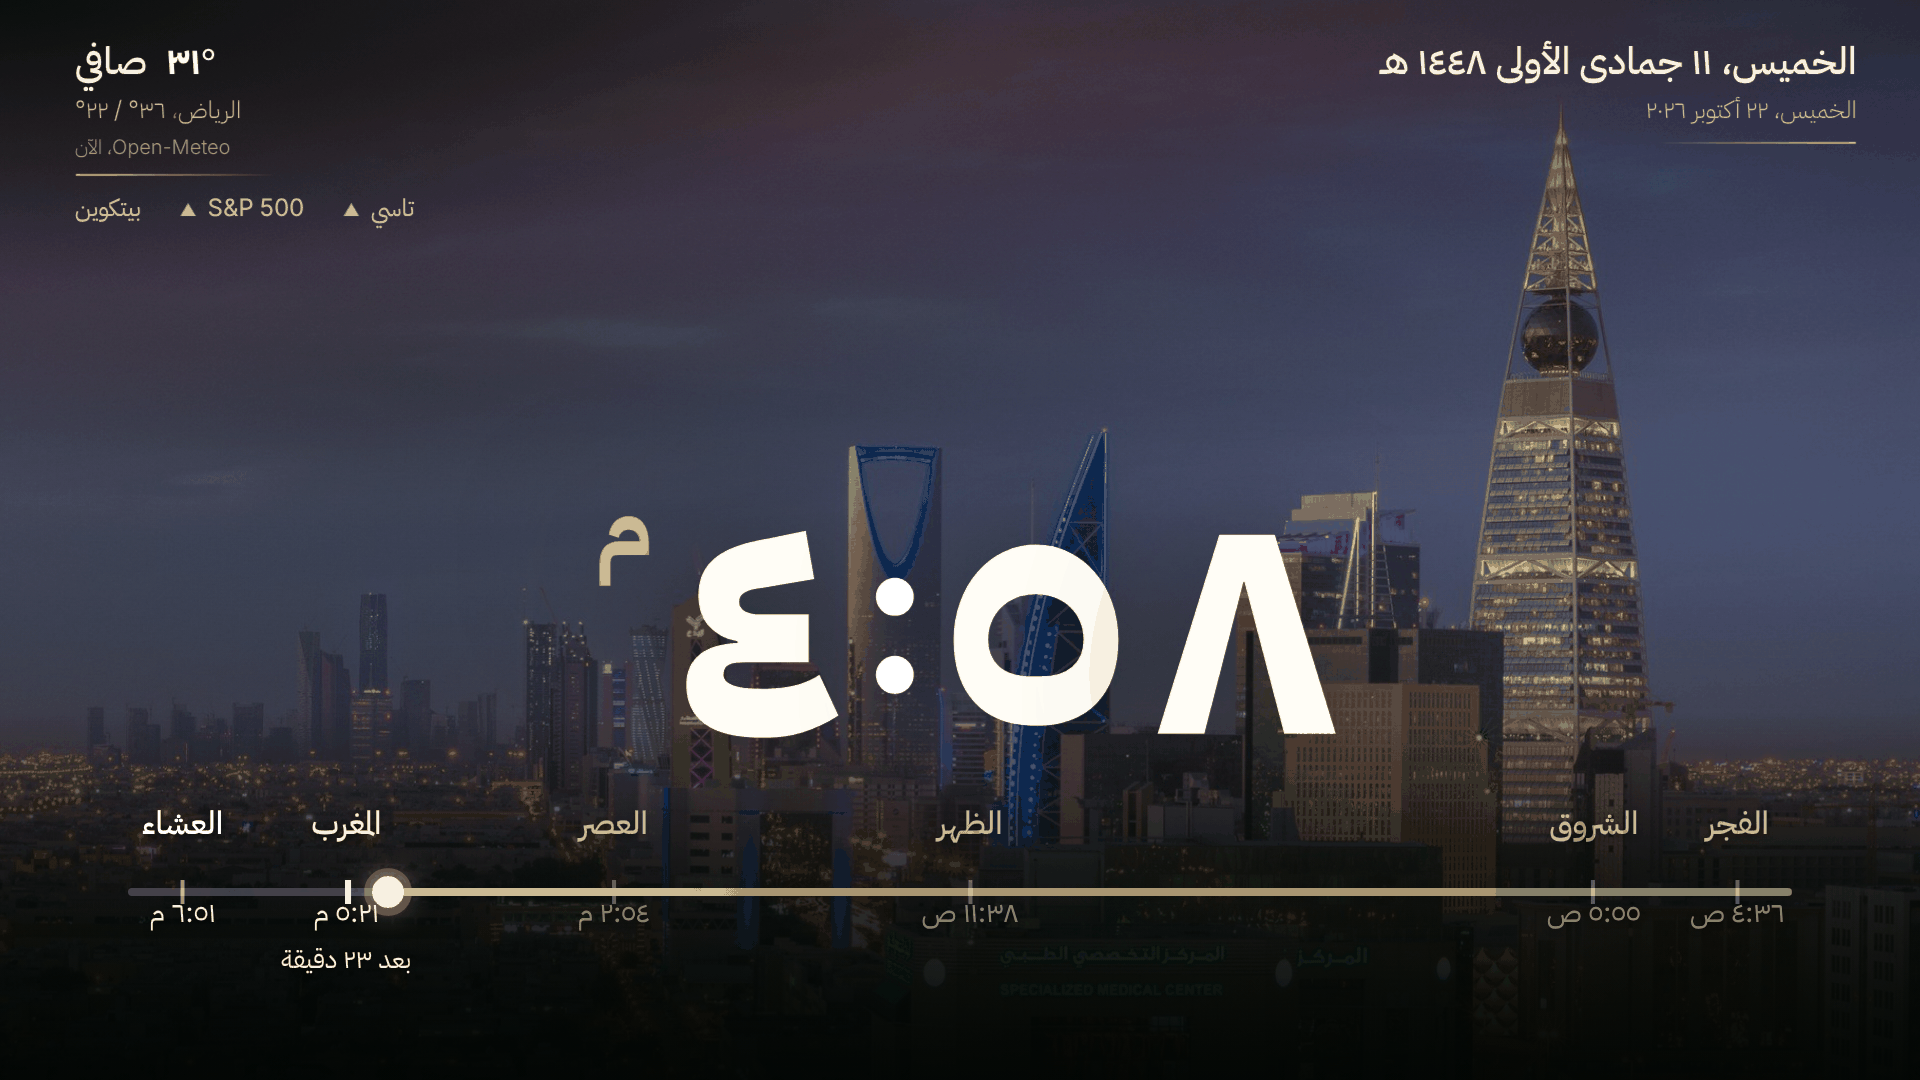
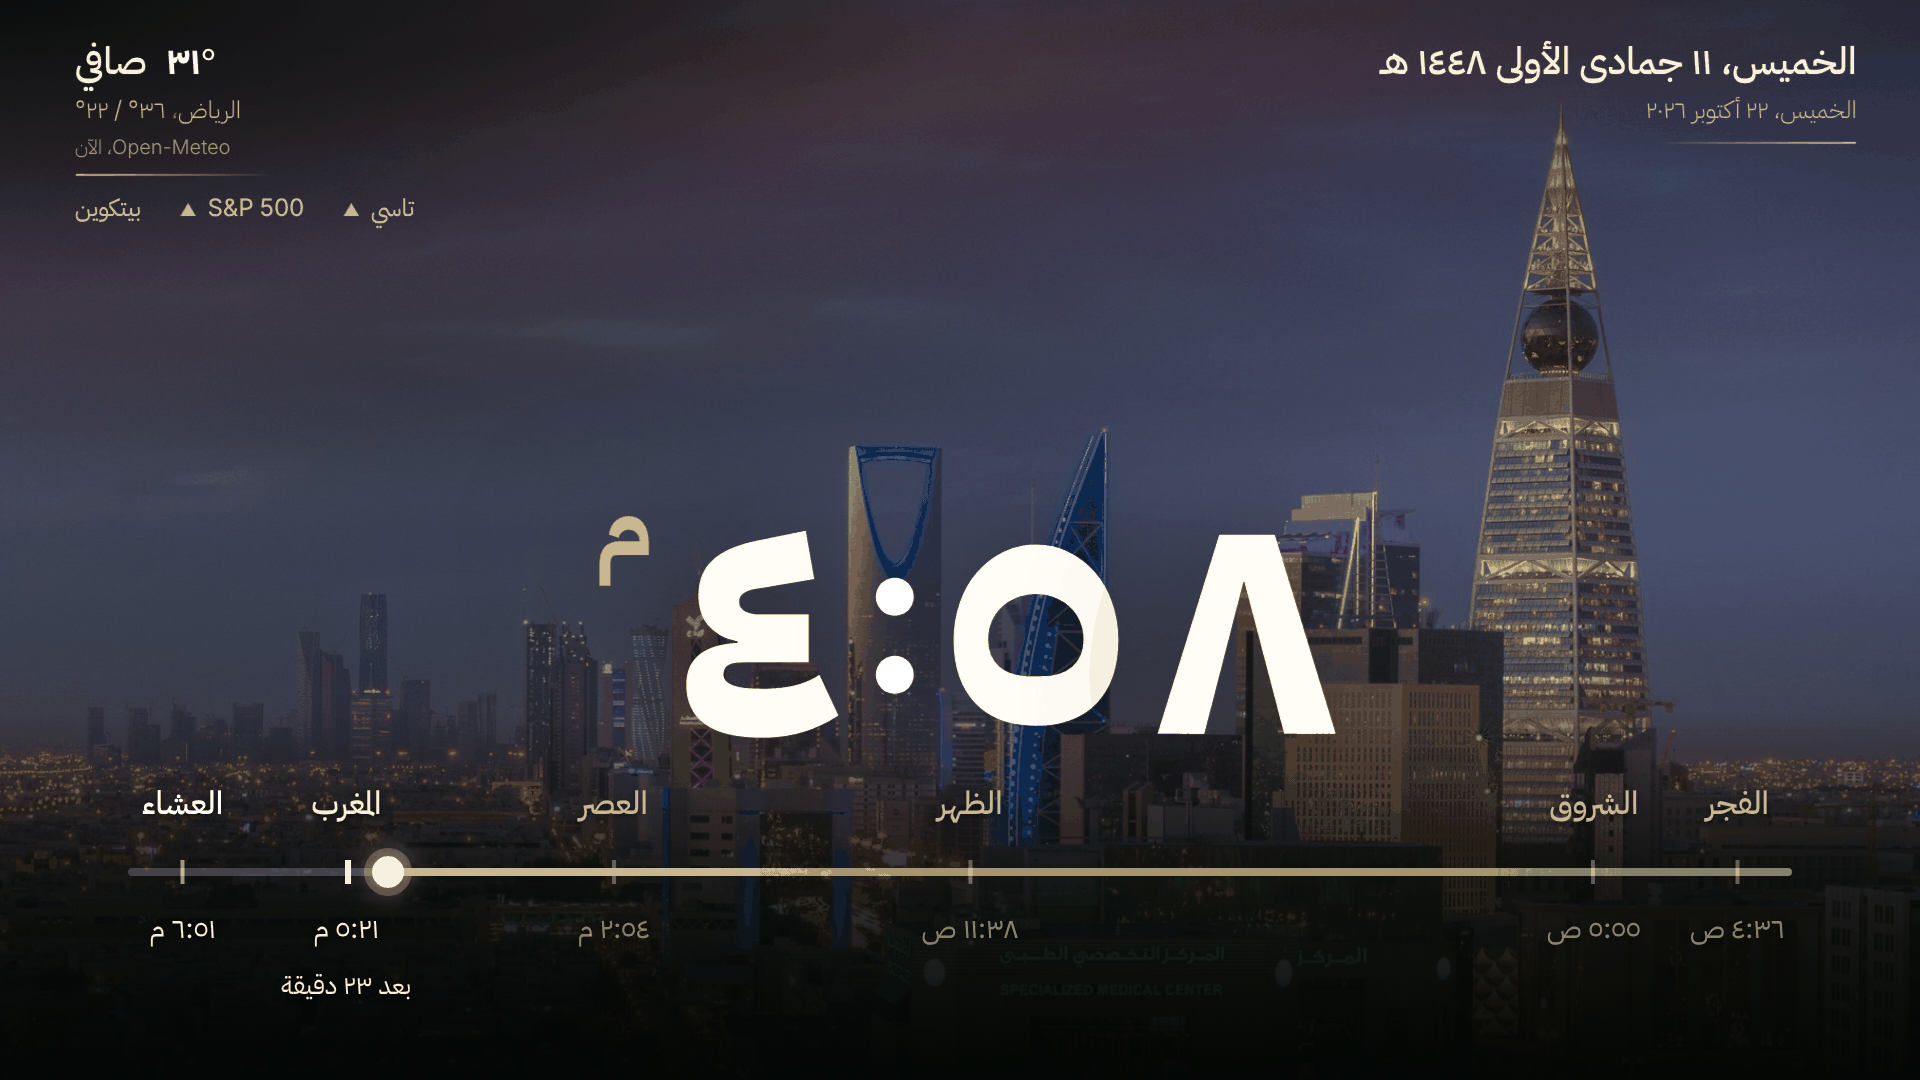
Screensaver designs 01, 08, 12: the prayer's name and its time never touch (the time its own isolated run, a gap before it); in «خط اليوم» the times under the line, clear of the «now» dot

Changed region(s): [[0.0625, 0.7333, 0.9375, 0.9167]]

diff --git a/docs/mockups/saver-designs/src/dayline.css b/docs/mockups/saver-designs/src/dayline.css
@@ -2,16 +2,16 @@
 html.sd-day .week,html.sd-day .bottom,html.sd-day .bottom-veil,html.sd-day .subline{display:none!important}
 html.sd-day .mid{grid-template-columns:1fr}
 html.sd-day .clockwrap{justify-self:center;align-self:center;text-align:center}
-.sd-dl{position:fixed;left:64px;right:64px;bottom:48px;height:92px;z-index:6;direction:rtl}
+.sd-dl{position:fixed;left:64px;right:64px;bottom:36px;height:114px;z-index:6;direction:rtl}
 .sd-dl::before{content:'';position:absolute;left:0;right:0;top:44px;height:4px;border-radius:2px;background:rgba(255,255,255,.22)}
 .sd-dl .done{position:absolute;right:0;top:44px;height:4px;border-radius:2px;background:linear-gradient(to left,rgba(224,186,116,.45),#E0BA74)}
 .sd-dl .now{position:absolute;top:38px;width:16px;height:16px;margin-right:-8px;border-radius:50%;background:#FFE9B8;box-shadow:0 0 0 4px rgba(255,233,184,.25),0 0 16px rgba(255,233,184,.6)}
 .sd-dl .p{position:absolute;top:0;transform:translateX(50%);text-align:center;white-space:nowrap;color:#fff;text-shadow:0 1px 3px rgba(0,0,0,.6)}
-.sd-dl .p b{display:block;font-size:16px;font-weight:500;margin-bottom:22px}
-.sd-dl .p i{display:block;font-style:normal;font-size:14px;color:#E2DACA}
+.sd-dl .p b{display:block;font-size:16px;font-weight:500;line-height:24px}
+.sd-dl .p i{display:block;margin-top:40px;font-style:normal;font-size:14px;color:#E2DACA;unicode-bidi:isolate}   /* under the line: the «now» dot never sits on a time */
 .sd-dl .p::after{content:'';position:absolute;left:50%;top:40px;width:2px;height:12px;margin-left:-1px;background:rgba(255,255,255,.55)}
 .sd-dl .p.past{opacity:.6}
 .sd-dl .p.next b{color:#FFE9B8}.sd-dl .p.next i{color:#FFE9B8}
 .sd-dl .p.next::after{background:#FFE9B8;width:3px}
-.sd-dl .left{position:absolute;top:70px;transform:translateX(50%);font-size:13px;color:#FFE9B8;white-space:nowrap;text-shadow:0 1px 3px rgba(0,0,0,.6)}
+.sd-dl .left{position:absolute;top:93px;transform:translateX(50%);font-size:13px;color:#FFE9B8;white-space:nowrap;text-shadow:0 1px 3px rgba(0,0,0,.6)}
 html.sd-day .bottom-veil{display:block!important;height:34vh}

diff --git a/docs/mockups/saver-designs/src/_common.js b/docs/mockups/saver-designs/src/_common.js
@@ -3,7 +3,7 @@ const H = document.documentElement, low = SD.opt === 'low' || CONFIG.lowram;
 const put = (cls, html, css) => { const e = document.createElement('div'); e.className = cls; e.innerHTML = html; if (css) e.style.cssText = css; document.body.appendChild(e); return e; };
 const txt = id => (document.getElementById(id) || {}).textContent || '';
 const dayLine = () => [txt('hijri'), txt('greg').replace(/^[^،]+،\s*/, '')].filter(Boolean).join(SEP);   // «الخميس، ١١ جمادى الأولى ١٤٤٨ هـ، ٢٢ أكتوبر ٢٠٢٦»
-const nextLine = () => txt('prayer-name') && [txt('prayer-name') + ' ' + txt('prayer-time'), txt('prayer-count')].filter(Boolean).join(SEP);
+const nextLine = () => txt('prayer-name') && '<b>' + txt('prayer-name') + '</b><span class="pt">' + txt('prayer-time') + '</span>' + (txt('prayer-count') ? SEP + txt('prayer-count') : '');   // the time its own isolated run, a gap before it (the app's page does the same)
 // the clock out of the stage's grid (a photo's settle movement makes the stage a containing block): placed on the screen itself
 const lift = () => document.body.appendChild(document.querySelector('.clockwrap'));
 // the clock's colon as two round dots (the app's Thmanyah has round ones; the stand-in font here draws squares)

diff --git a/docs/mockups/saver-designs/src/clean.js b/docs/mockups/saver-designs/src/clean.js
@@ -5,4 +5,4 @@ if (!low && SD.glass) { H.classList.add('sd-glass'); if (SD.dark) H.classList.ad
 H.style.setProperty('--sd-top', SD.top + 'px'); H.style.setProperty('--sd-size', SD.size + 'px'); H.style.setProperty('--sd-x', ((SD.x || 960) - 960) / 2 + 'px');
 if (!low && SD.fg) put('sd-fg', '', `top:${SD.fgTop}px;height:${SD.fgH}px;background-image:url('${SD.fg}')`);
 const nx = SD.opt === 'nonext' || SD.nonext ? '' : nextLine();
-put('sd-line', `<div class="d">${dayLine()}</div>` + (nx ? `<div class="n"><b>${nx.split(SEP)[0]}</b>${SEP}${nx.split(SEP).slice(1).join(SEP)}</div>` : ''), `top:${Math.round(SD.top + SD.size * .98)}px`);
+put('sd-line', `<div class="d">${dayLine()}</div>` + (nx ? `<div class="n">${nx}</div>` : ''), `top:${Math.round(SD.top + SD.size * .98)}px`);

diff --git a/docs/mockups/saver-designs/src/bar.css b/docs/mockups/saver-designs/src/bar.css
@@ -27,3 +27,5 @@ html.sd-wx-usual .top{display:flex!important}html.sd-wx-usual .top .dates,html.s
 html.sd-glass .clock .sep.sd-dots::before,html.sd-glass .clock .sep.sd-dots::after{background:rgba(255,255,255,.9);box-shadow:0 1px 4px rgba(0,0,0,.3)}
 html.sd-big .clock .sep.sd-dots::before,html.sd-big .clock .sep.sd-dots::after{width:.07em;height:.07em;margin-left:-.035em}
 html.sd-glass.sd-dark .clock .sep.sd-dots::before,html.sd-glass.sd-dark .clock .sep.sd-dots::after{background:rgba(64,64,68,.94)}   /* the dark glass's own colour */
+
+.pt{unicode-bidi:isolate;direction:rtl;margin-inline-start:.3em}
